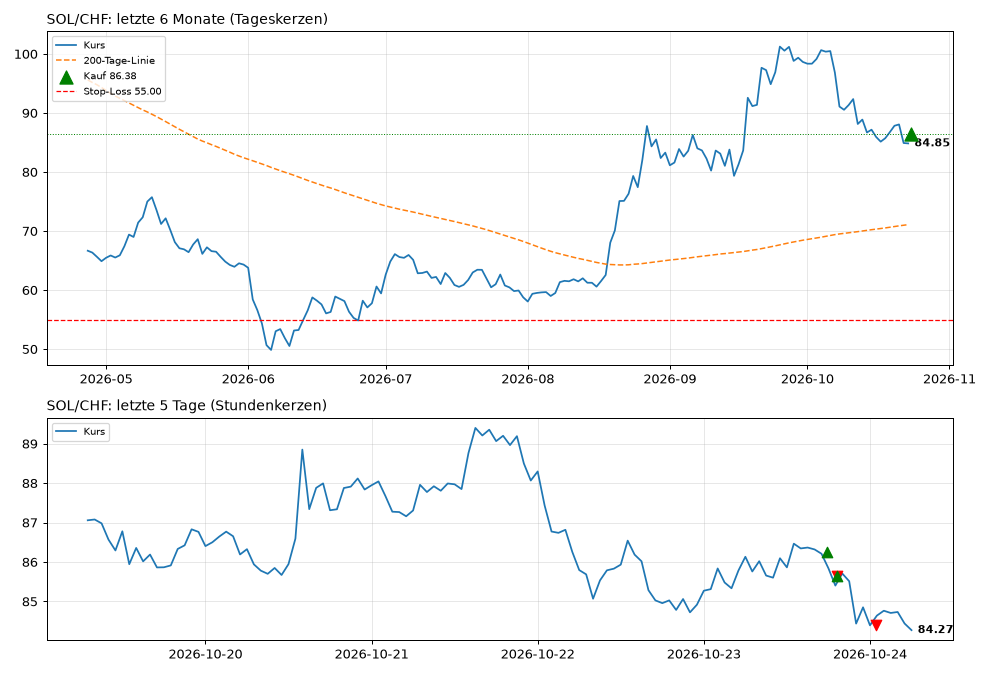
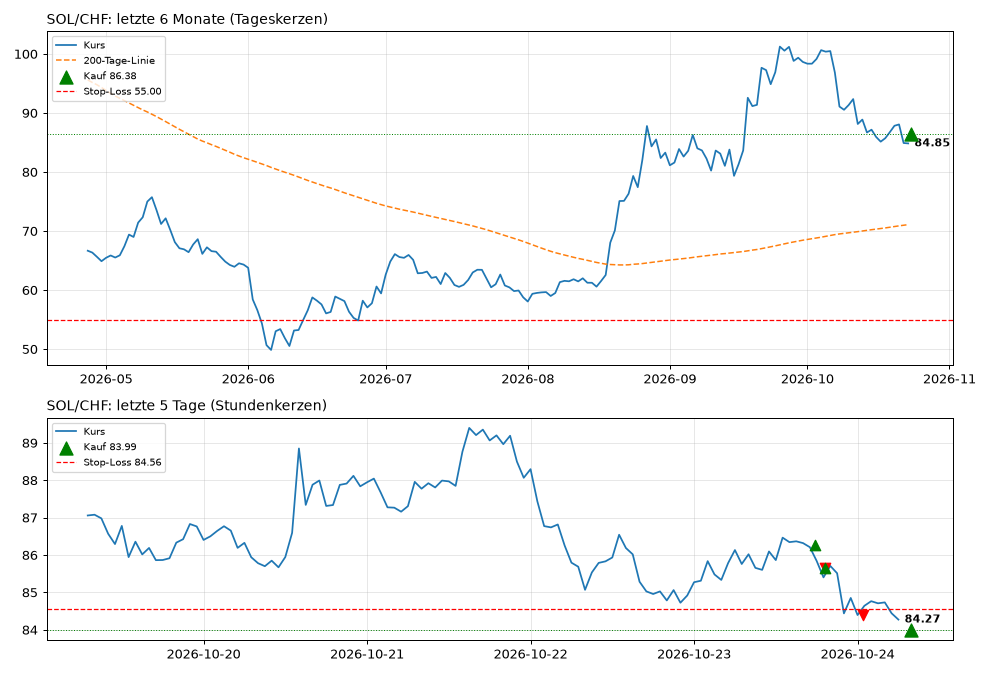
Bot-Lauf 2026-10-24 07:56

diff --git a/STATUS.md b/STATUS.md
@@ -1,6 +1,6 @@
 # 📈 Trading-Bot: Übersicht (Demo mit Spielgeld)
 
-Stand: **24.10.2026 09:26** Schweizer Zeit · wird jede Stunde automatisch aktualisiert
+Stand: **24.10.2026 09:56** Schweizer Zeit · wird jede Stunde automatisch aktualisiert
 
 ## Auf einen Blick
 
@@ -12,14 +12,14 @@ Stand: **24.10.2026 09:26** Schweizer Zeit · wird jede Stunde automatisch aktua
 | | **1⃣ Langfrist-Bot (Hauptbot)** | **2⃣ KI-Bot (lernend, Daytrading)** | **3⃣ Risiko-Bot (aggressiv, Hebel 3×)** |
 |---|---|---|---|
 | Startkapital | 1'000.00 CHF | 1'000.00 CHF | 1'000.00 CHF |
-| **Kapital jetzt** | **991.69 CHF** | **969.76 CHF** | **944.42 CHF** |
-| Gewinn / Verlust | 🔴 -8.31 CHF (-0.83 %) | 🔴 -30.24 CHF (-3.02 %) | 🔴 -55.58 CHF (-5.56 %) |
-| Im Einsatz (investiert) | 406.74 CHF (41 %) | 249.63 CHF (26 %) | 2'822.90 CHF (299 %) |
-| Cash (nicht investiert) | 584.96 CHF | 720.13 CHF | 3'767.33 CHF |
-| Offene Positionen | 5 | 1 | 5 |
+| **Kapital jetzt** | **990.97 CHF** | **969.69 CHF** | **946.16 CHF** |
+| Gewinn / Verlust | 🔴 -9.03 CHF (-0.90 %) | 🔴 -30.31 CHF (-3.03 %) | 🔴 -53.84 CHF (-5.38 %) |
+| Im Einsatz (investiert) | 406.01 CHF (41 %) | 249.55 CHF (26 %) | 2'832.52 CHF (299 %) |
+| Cash (nicht investiert) | 584.96 CHF | 720.13 CHF | 3'778.69 CHF |
+| Offene Positionen | 5 | 1 | 6 |
 | Abgeschlossene Trades | 0 | 3 | 13 |
 | Strategie | regime, 1d-Kerzen | adaptive_memory, 1h-Kerzen | breakout, 30m-Kerzen |
-| Hebel | ohne | ohne | 3× (Zinsen bisher 1.84 CHF) |
+| Hebel | ohne | ohne | 3× (Zinsen bisher 1.91 CHF) |
 
 ## 4⃣ Chef-Bot (verteilt auf die drei Stile)
 
@@ -28,29 +28,29 @@ Er handelt nicht selbst, sondern legt sein eigenes Kapital anteilig in die Stile
 | | |
 |---|---|
 | Startkapital | 1'000.00 CHF |
-| **Kapital jetzt** | **984.54 CHF** |
-| Gewinn / Verlust | 🔴 -15.46 CHF (-1.55 %) |
+| **Kapital jetzt** | **984.22 CHF** |
+| Gewinn / Verlust | 🔴 -15.78 CHF (-1.58 %) |
 | **Aktuelle Verteilung** | Langfrist 46 % · KI 12 % · Risiko 1 % · Cash 41 % |
 | Marktphase (BTC, Tageskerzen) | Aufwärtstrend, wild |
 | Letzte Begründung | Marktphase «Aufwärtstrend, wild», Einschätzung: Langfrist -0.9 %, KI -5.2 %, Risiko -7.0 %, 🚨 Notbremse Risiko (-3.4 % in 3 Std.) |
 | Umschicht-Gebühren bisher | 1.30 CHF |
-| Erfahrung im Gedächtnis | 28 Läufe |
+| Erfahrung im Gedächtnis | 29 Läufe |
 
-**Was das Gedächtnis in dieser Phase weiss:** Langfrist -0.019 %/Lauf, KI -0.094 %/Lauf, Risiko -0.113 %/Lauf
+**Was das Gedächtnis in dieser Phase weiss:** Langfrist -0.021 %/Lauf, KI -0.091 %/Lauf, Risiko -0.103 %/Lauf
 
 
 ## Kurse
 
 | Coin | Kurs jetzt | 24 Std. | Live-Chart |
 |---|---|---|---|
-| **BTC** | 66'574.30 CHF | 🔴 -0.61 % | [öffnen](https://www.tradingview.com/chart/?symbol=KRAKEN:BTCCHF) |
-| **ETH** | 1'963.03 CHF | 🔴 -0.30 % | [öffnen](https://www.tradingview.com/chart/?symbol=KRAKEN:ETHCHF) |
-| **BNB** | 608.07 CHF | 🔴 -0.20 % | [öffnen](https://www.tradingview.com/chart/?symbol=KRAKEN:BNBUSD) |
-| **XRP** | 1.06 CHF | 🔴 -0.47 % | [öffnen](https://www.tradingview.com/chart/?symbol=KRAKEN:XRPUSD) |
-| **SOL** | 84.13 CHF | 🔴 -0.69 % | [öffnen](https://www.tradingview.com/chart/?symbol=KRAKEN:SOLUSD) |
-| **TRX** | 0.27 CHF | 🔴 -0.03 % | [öffnen](https://www.tradingview.com/chart/?symbol=KRAKEN:TRXUSD) |
-| **ZEC** | 963.01 CHF | 🔴 -1.16 % | [öffnen](https://www.tradingview.com/chart/?symbol=KRAKEN:ZECUSD) |
-| **HYPE** | 62.96 CHF | 🔴 -0.91 % | [öffnen](https://www.tradingview.com/chart/?symbol=KRAKEN:HYPEUSD) |
+| **BTC** | 66'572.20 CHF | 🔴 -0.61 % | [öffnen](https://www.tradingview.com/chart/?symbol=KRAKEN:BTCCHF) |
+| **ETH** | 1'957.93 CHF | 🔴 -0.56 % | [öffnen](https://www.tradingview.com/chart/?symbol=KRAKEN:ETHCHF) |
+| **BNB** | 606.79 CHF | 🔴 -0.41 % | [öffnen](https://www.tradingview.com/chart/?symbol=KRAKEN:BNBUSD) |
+| **XRP** | 1.06 CHF | 🔴 -0.80 % | [öffnen](https://www.tradingview.com/chart/?symbol=KRAKEN:XRPUSD) |
+| **SOL** | 84.00 CHF | 🔴 -0.85 % | [öffnen](https://www.tradingview.com/chart/?symbol=KRAKEN:SOLUSD) |
+| **TRX** | 0.27 CHF | 🔴 -0.07 % | [öffnen](https://www.tradingview.com/chart/?symbol=KRAKEN:TRXUSD) |
+| **ZEC** | 960.34 CHF | 🔴 -1.43 % | [öffnen](https://www.tradingview.com/chart/?symbol=KRAKEN:ZECUSD) |
+| **HYPE** | 62.90 CHF | 🔴 -1.00 % | [öffnen](https://www.tradingview.com/chart/?symbol=KRAKEN:HYPEUSD) |
 
 ## 1⃣ Langfrist-Bot (Hauptbot)
 
@@ -60,11 +60,11 @@ _Hält Coins über Wochen bis Monate, solange der Kurs über der 200-Tage-Linie 
 
 | Coin | Gekauft am | Einstiegskurs | Kurs jetzt | Menge | Einsatz | Wert jetzt | Gewinn / Verlust | Stop-Loss |
 |---|---|---|---|---|---|---|---|---|
-| **BTC** long | 23.10.2026 18:09 | 67'388.78 | 66'574.30 | 0.001485 | 100.05 CHF | 98.84 CHF | 🔴 -1.21 CHF (-1.21 %) | 53'251.84 (-20 %) |
-| **ETH** long | 23.10.2026 18:09 | 1'986.19 | 1'963.03 | 0.040710 | 80.86 CHF | 79.92 CHF | 🔴 -0.94 CHF (-1.17 %) | 1'371.11 (-30 %) |
-| **BNB** long | 23.10.2026 19:15 | 617.14 | 608.07 | 0.162070 | 100.02 CHF | 98.55 CHF | 🔴 -1.47 CHF (-1.47 %) | 483.48 (-20 %) |
-| **XRP** long | 23.10.2026 19:15 | 1.08 | 1.06 | 58.690975 | 63.53 CHF | 62.31 CHF | 🔴 -1.21 CHF (-1.91 %) | 0.66 (-38 %) |
-| **SOL** long | 23.10.2026 19:15 | 86.38 | 84.13 | 0.797780 | 68.91 CHF | 67.12 CHF | 🔴 -1.79 CHF (-2.60 %) | 55.00 (-35 %) |
+| **BTC** long | 23.10.2026 18:09 | 67'388.78 | 66'572.20 | 0.001485 | 100.05 CHF | 98.84 CHF | 🔴 -1.21 CHF (-1.21 %) | 53'251.84 (-20 %) |
+| **ETH** long | 23.10.2026 18:09 | 1'986.19 | 1'957.93 | 0.040710 | 80.86 CHF | 79.71 CHF | 🔴 -1.15 CHF (-1.42 %) | 1'371.11 (-30 %) |
+| **BNB** long | 23.10.2026 19:15 | 617.14 | 606.79 | 0.162070 | 100.02 CHF | 98.34 CHF | 🔴 -1.68 CHF (-1.68 %) | 483.48 (-20 %) |
+| **XRP** long | 23.10.2026 19:15 | 1.08 | 1.06 | 58.690975 | 63.53 CHF | 62.11 CHF | 🔴 -1.42 CHF (-2.23 %) | 0.66 (-38 %) |
+| **SOL** long | 23.10.2026 19:15 | 86.38 | 84.00 | 0.797780 | 68.91 CHF | 67.01 CHF | 🔴 -1.89 CHF (-2.75 %) | 55.00 (-35 %) |
 
 **Signale jetzt**
 
@@ -89,7 +89,7 @@ _Lernende KI mit Gedächtnis: merkt sich für jede Marktphase, welche Strategie 
 
 | Coin | Gekauft am | Einstiegskurs | Kurs jetzt | Menge | Einsatz | Wert jetzt | Gewinn / Verlust | Stop-Loss |
 |---|---|---|---|---|---|---|---|---|
-| **TRX** long | 23.10.2026 20:16 | 0.27 | 0.27 | 918.327343 | 250.05 CHF | 249.63 CHF | 🔴 -0.43 CHF (-0.17 %) | 0.27 (-0 %) |
+| **TRX** long | 23.10.2026 20:16 | 0.27 | 0.27 | 918.327343 | 250.05 CHF | 249.55 CHF | 🔴 -0.50 CHF (-0.20 %) | 0.27 (-0 %) |
 
 **Signale jetzt**
 
@@ -137,11 +137,12 @@ _Sehr risikofreudig: viele Trades alle 30 Minuten, setzt auch auf fallende Kurse
 
 | Coin | Gekauft am | Einstiegskurs | Kurs jetzt | Menge | Einsatz | Wert jetzt | Gewinn / Verlust | Stop-Loss |
 |---|---|---|---|---|---|---|---|---|
-| **BNB** short | 23.10.2026 21:16 | 612.08 | 608.07 | 0.690998 | 422.95 CHF | 420.17 CHF | 🟢 +2.77 CHF (+0.66 %) | 615.33 (+1 %) |
-| **TRX** short | 24.10.2026 01:19 | 0.27 | 0.27 | 6397.535113 | 1'740.04 CHF | 1'739.02 CHF | 🟢 +1.02 CHF (+0.06 %) | 0.27 (+0 %) |
-| **BTC** short | 24.10.2026 02:49 | 66'524.92 | 66'574.30 | 0.007261 | 483.03 CHF | 483.39 CHF | 🔴 -0.36 CHF (-0.07 %) | 66'938.10 (+1 %) |
-| **ETH** short | 24.10.2026 05:22 | 1'967.27 | 1'963.03 | 0.086765 | 170.69 CHF | 170.32 CHF | 🟢 +0.37 CHF (+0.22 %) | 1'977.10 (+1 %) |
-| **XRP** short | 24.10.2026 08:22 | 1.06 | 1.06 | 9.420074 | 10.00 CHF | 10.00 CHF | 🔴 -0.00 CHF (-0.00 %) | 1.07 (+1 %) |
+| **BNB** short | 23.10.2026 21:16 | 612.08 | 606.79 | 0.690998 | 422.95 CHF | 419.29 CHF | 🟢 +3.65 CHF (+0.86 %) | 615.33 (+1 %) |
+| **TRX** short | 24.10.2026 01:19 | 0.27 | 0.27 | 6397.535113 | 1'740.04 CHF | 1'738.52 CHF | 🟢 +1.52 CHF (+0.09 %) | 0.27 (+0 %) |
+| **BTC** short | 24.10.2026 02:49 | 66'524.92 | 66'572.20 | 0.007261 | 483.03 CHF | 483.38 CHF | 🔴 -0.34 CHF (-0.07 %) | 66'938.10 (+1 %) |
+| **ETH** short | 24.10.2026 05:22 | 1'967.27 | 1'957.93 | 0.086765 | 170.69 CHF | 169.88 CHF | 🟢 +0.81 CHF (+0.47 %) | 1'977.10 (+1 %) |
+| **XRP** short | 24.10.2026 08:22 | 1.06 | 1.06 | 9.420074 | 10.00 CHF | 9.97 CHF | 🟢 +0.03 CHF (+0.33 %) | 1.07 (+1 %) |
+| **SOL** short | 24.10.2026 09:55 | 83.99 | 84.00 | 0.136771 | 11.49 CHF | 11.49 CHF | 🔴 -0.00 CHF (-0.01 %) | 84.56 (+1 %) |
 
 **Signale jetzt**
 
@@ -156,7 +157,7 @@ _Sehr risikofreudig: viele Trades alle 30 Minuten, setzt auch auf fallende Kurse
 | ZEC | 🔴 raus / Cash |
 | HYPE | 🔴 raus / Cash |
 
-**Letzte Entscheidung:** BTC/CHF: Position offen, Signal bestätigt · ETH/CHF: Position offen, Signal bestätigt · BNB/CHF: Position offen, Signal bestätigt · XRP/CHF: Position offen, Signal bestätigt · SOL/CHF: kein Einstieg (Order kleiner als Mindestgrösse) · TRX/CHF: Position offen, Signal bestätigt · ZEC/CHF: kein Einstieg (Order kleiner als Mindestgrösse) · HYPE/CHF: kein Einstieg (Order kleiner als Mindestgrösse)
+**Letzte Entscheidung:** BTC/CHF: Position offen, Signal bestätigt · ETH/CHF: Position offen, Signal bestätigt · BNB/CHF: Position offen, Signal bestätigt · XRP/CHF: Position offen, Signal bestätigt · SOL/CHF: short eröffnet 0.136771 @ 83.99 · TRX/CHF: Position offen, Signal bestätigt · ZEC/CHF: kein Einstieg (max. offene Positionen) · HYPE/CHF: kein Einstieg (max. offene Positionen)
 
 **Letzte abgeschlossene Trades**
 

diff --git a/lernen/tagebuch/2026-10-24.md b/lernen/tagebuch/2026-10-24.md
@@ -152,3 +152,11 @@ Alle Zeiten in Schweizer Zeit.
 - **Marktlage:** Dieser Bot beachtet keine Nachrichten.
 - **Hebel:** 3×: jede Kursbewegung wirkt 3-fach auf das Konto, dazu kommen Zinsen auf das geliehene Geld.
 
+### 09:55 · 3⃣ Risiko-Bot (aggressiv, Hebel 3×) · 🟣 **Short** (Wette auf fallende Kurse) SOL/CHF
+
+- **Kurs:** 83.99 CHF, Menge 0.136771, Einsatz 11.49 CHF
+- **Warum:** Der Kurs hat ein neues kurzfristiges Tief gemacht (Ausbruch nach unten).
+- **Stop-Loss:** 84.56 CHF (+0.7 %), möglicher Verlust ca. 0.08 CHF
+- **Marktlage:** Dieser Bot beachtet keine Nachrichten.
+- **Hebel:** 3×: jede Kursbewegung wirkt 3-fach auf das Konto, dazu kommen Zinsen auf das geliehene Geld.
+
